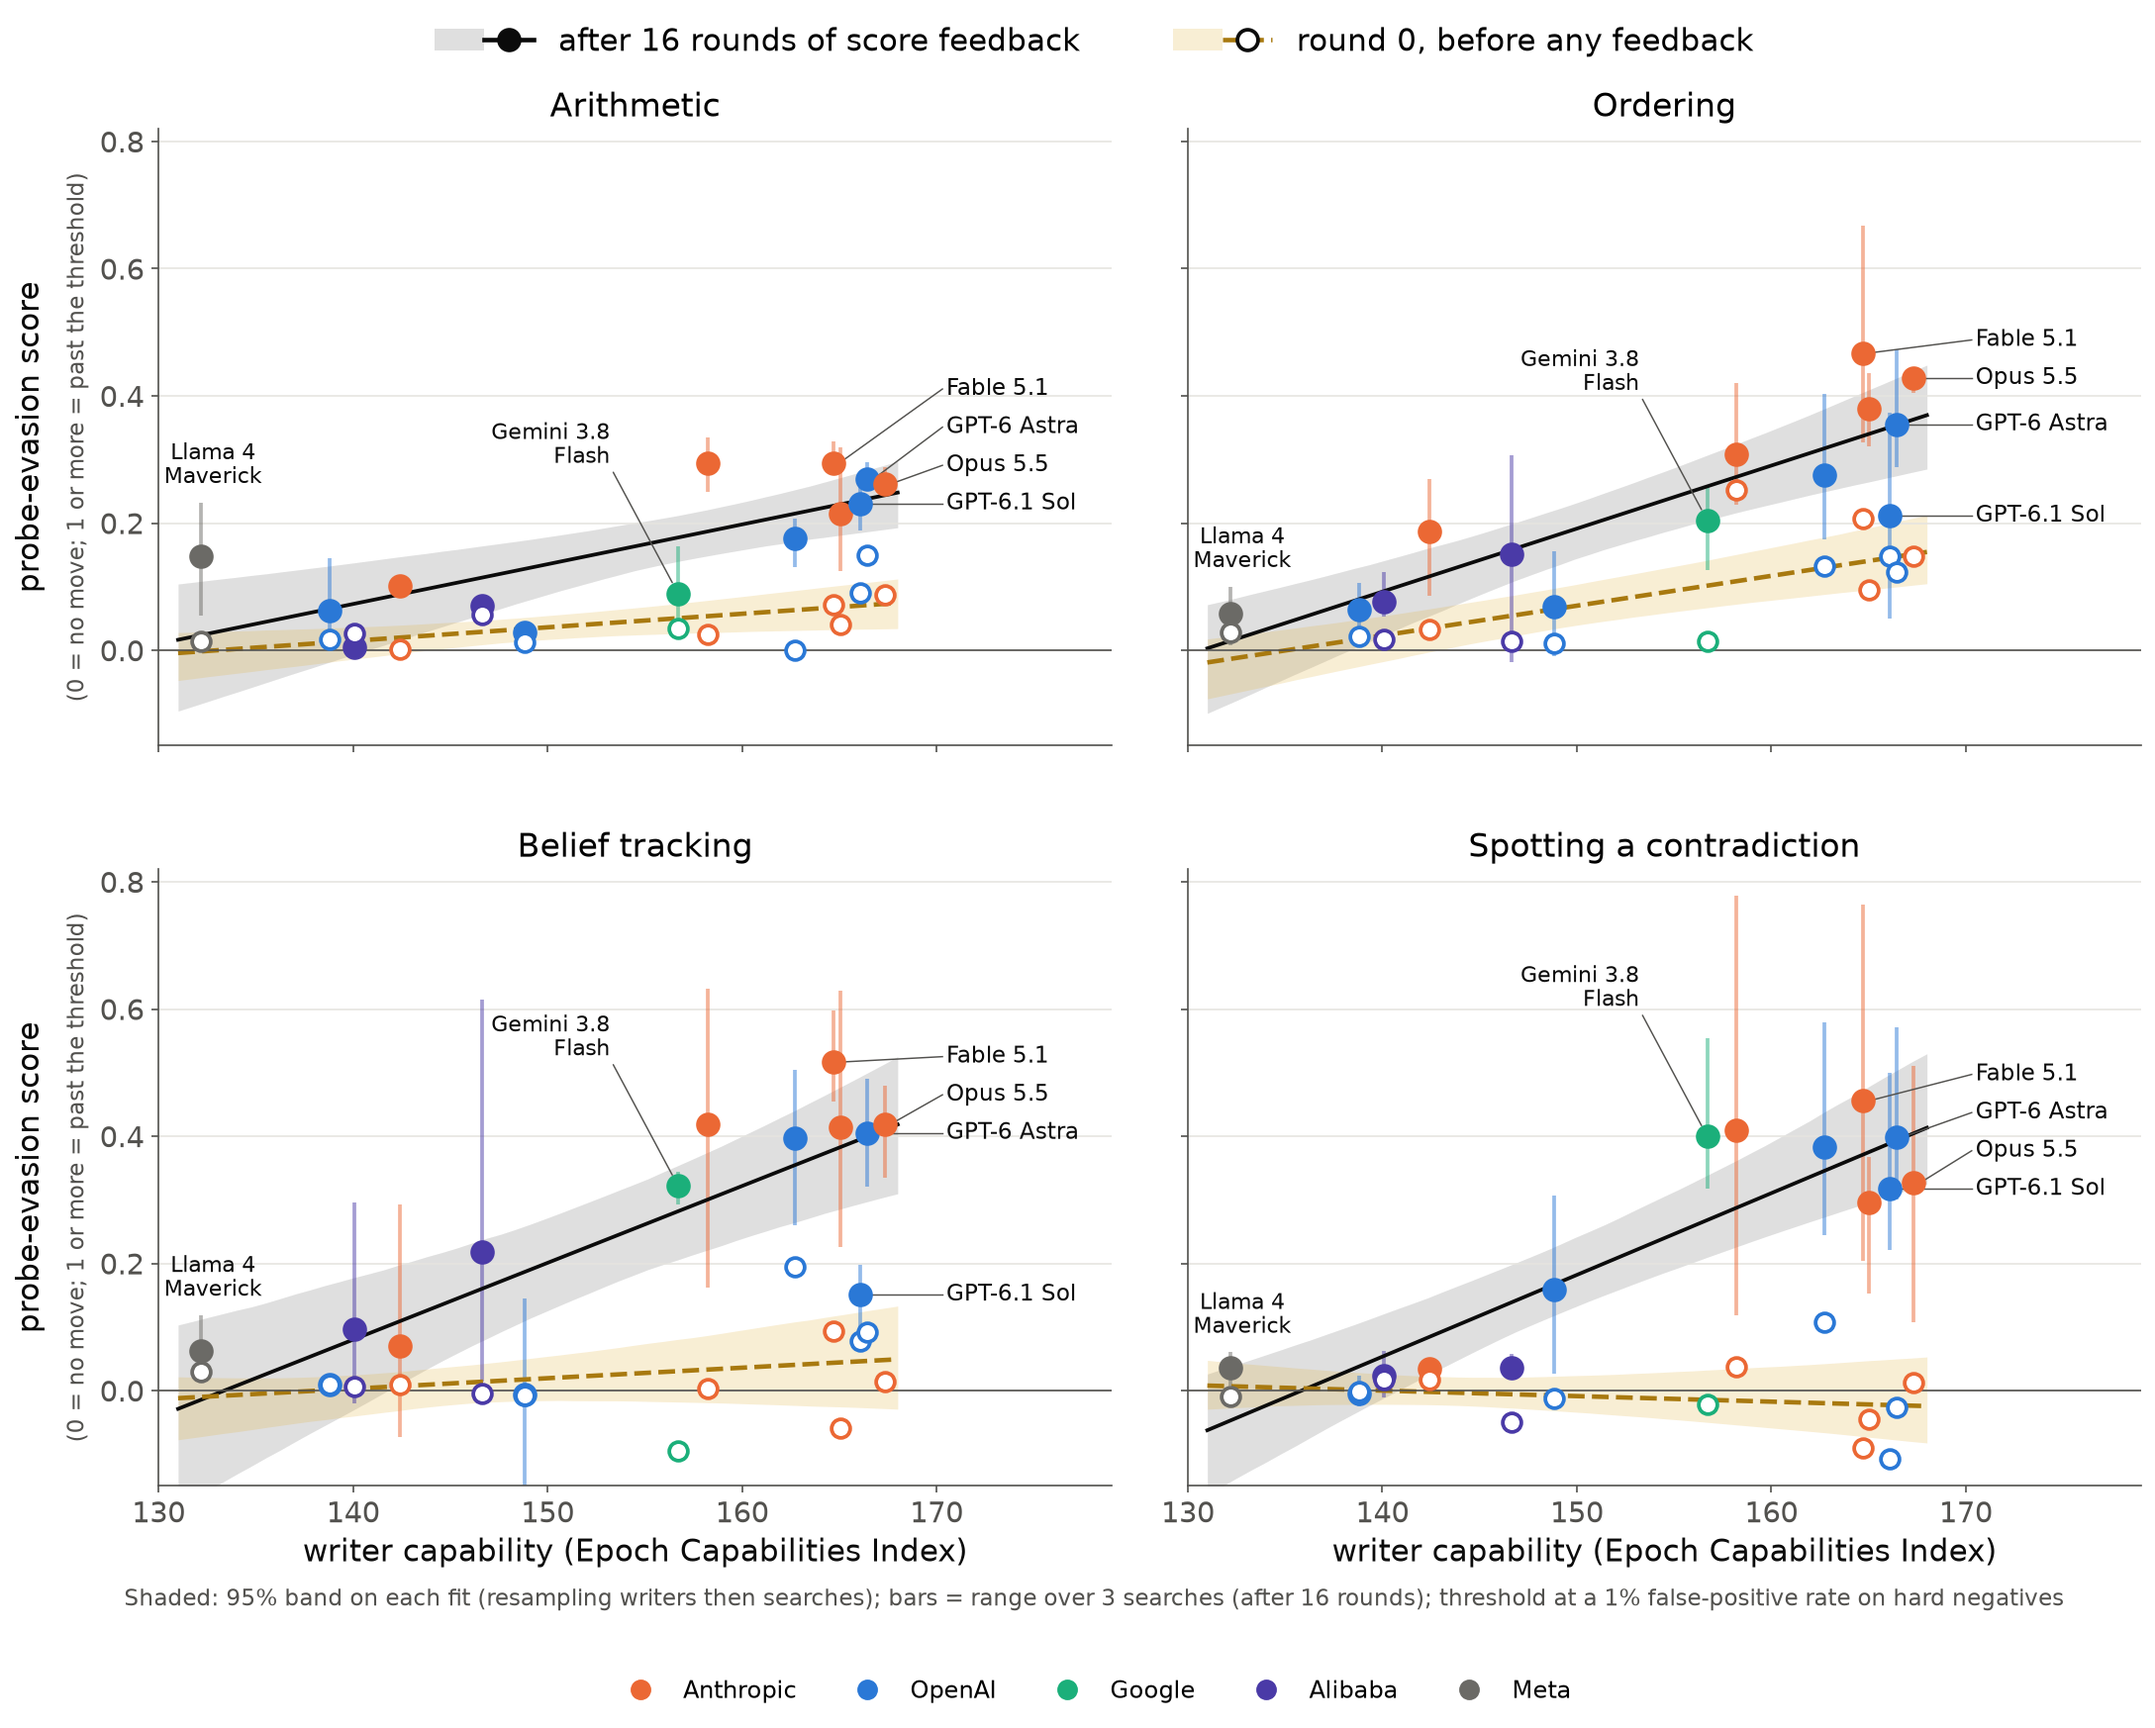
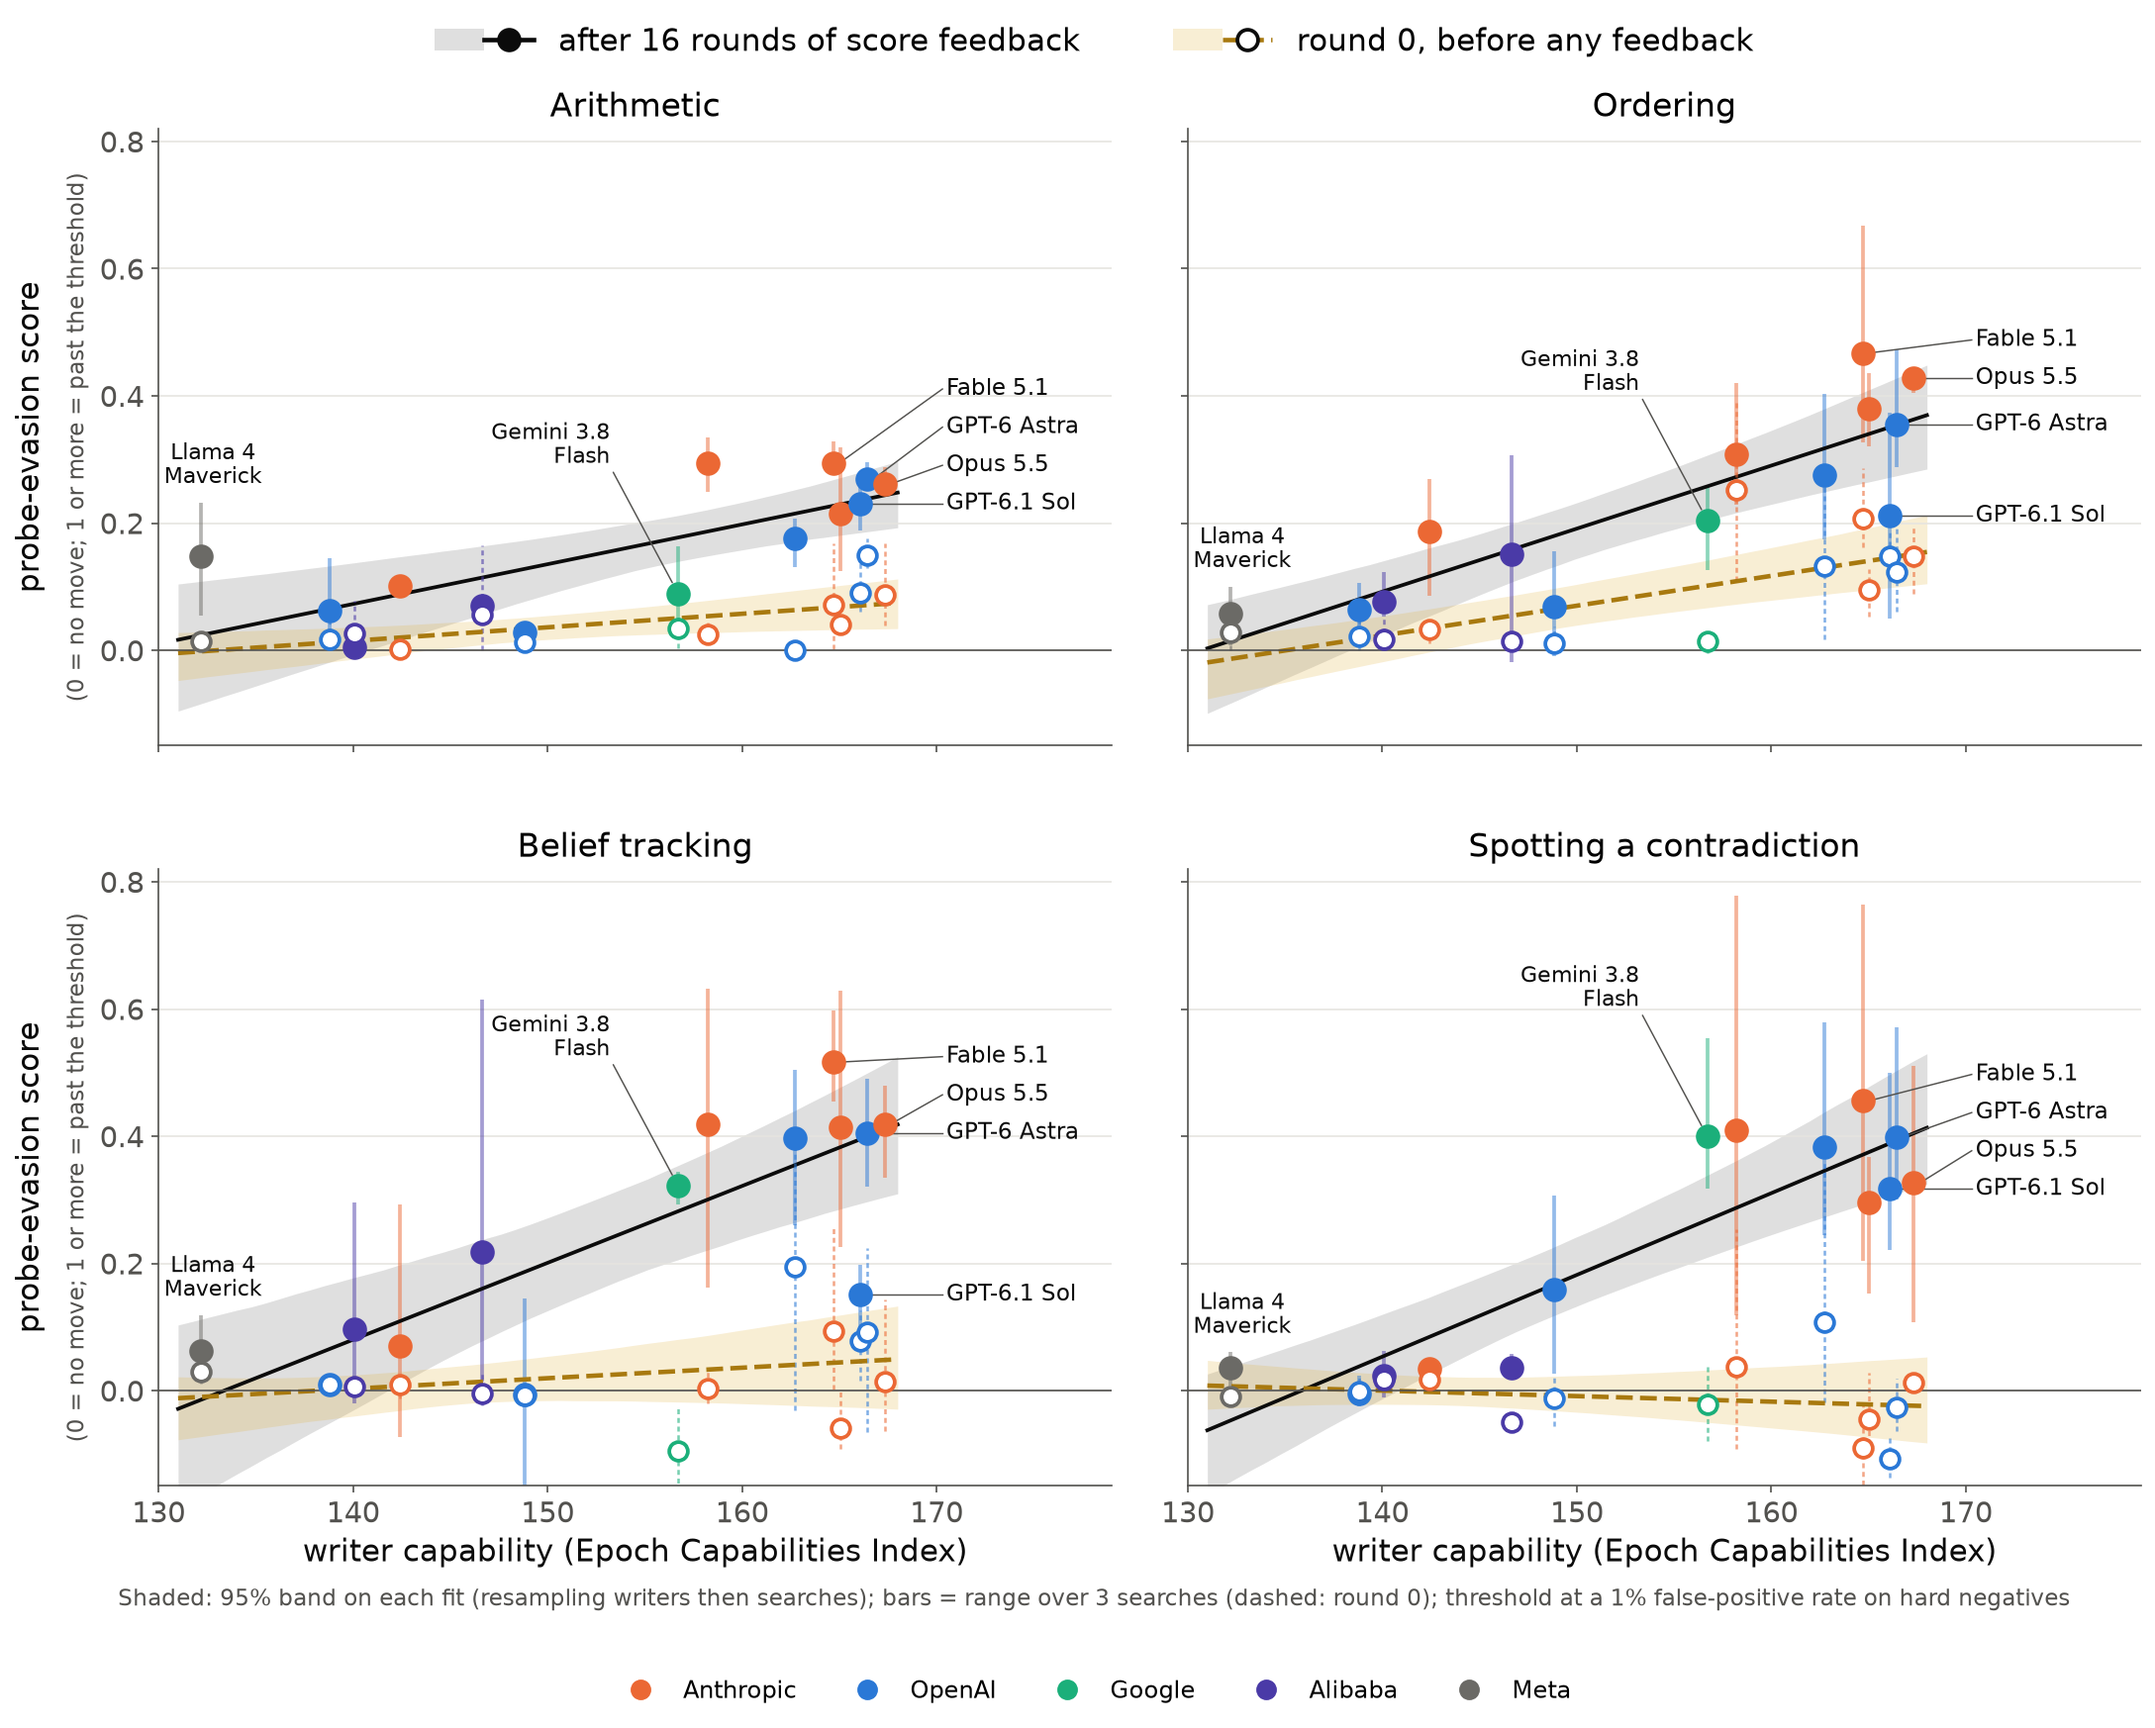
Main figure key variants: keep the dashed round-0 range bars

Changed region(s): [[0.4685, 0.8969, 0.9683, 0.9278], [0.0625, 0.8969, 0.4373, 0.9278]]

diff --git a/analysis/post_v9/fig_2x2.py b/analysis/post_v9/fig_2x2.py
@@ -266,7 +266,7 @@ def main() -> None:
         figure(("B16", "B0"), meta, f"trend_2x2_combined_{style}.png", uncertainty=style)
     figure(("B16", "B0"), meta, "trend_2x2_combined_bands_gold0_bars.png", uncertainty="bands_gold0", round0_bars=True)
     for key in ("top", "side"):
-        figure(("B16", "B0"), meta, f"trend_2x2_combined_bands_gold0_key_{key}.png", uncertainty="bands_gold0", key=key)
+        figure(("B16", "B0"), meta, f"trend_2x2_combined_bands_gold0_key_{key}.png", uncertainty="bands_gold0", round0_bars=True, key=key)
     how_to_read()
 
 
